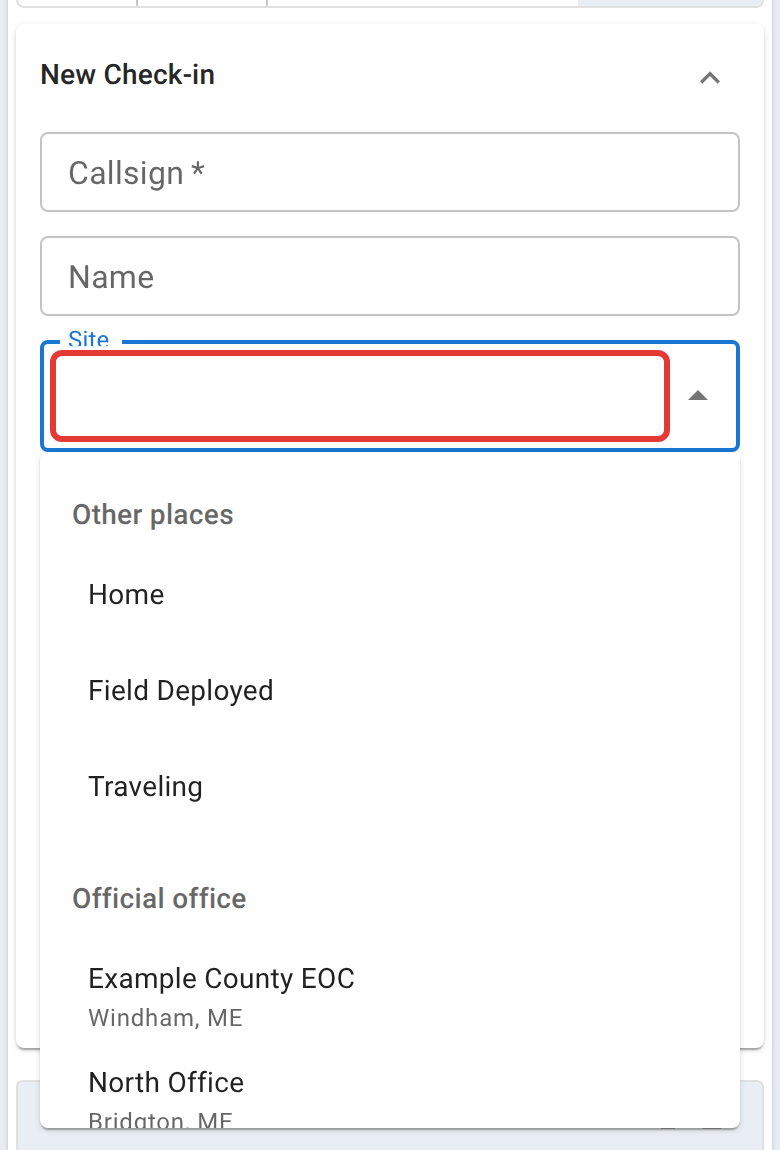
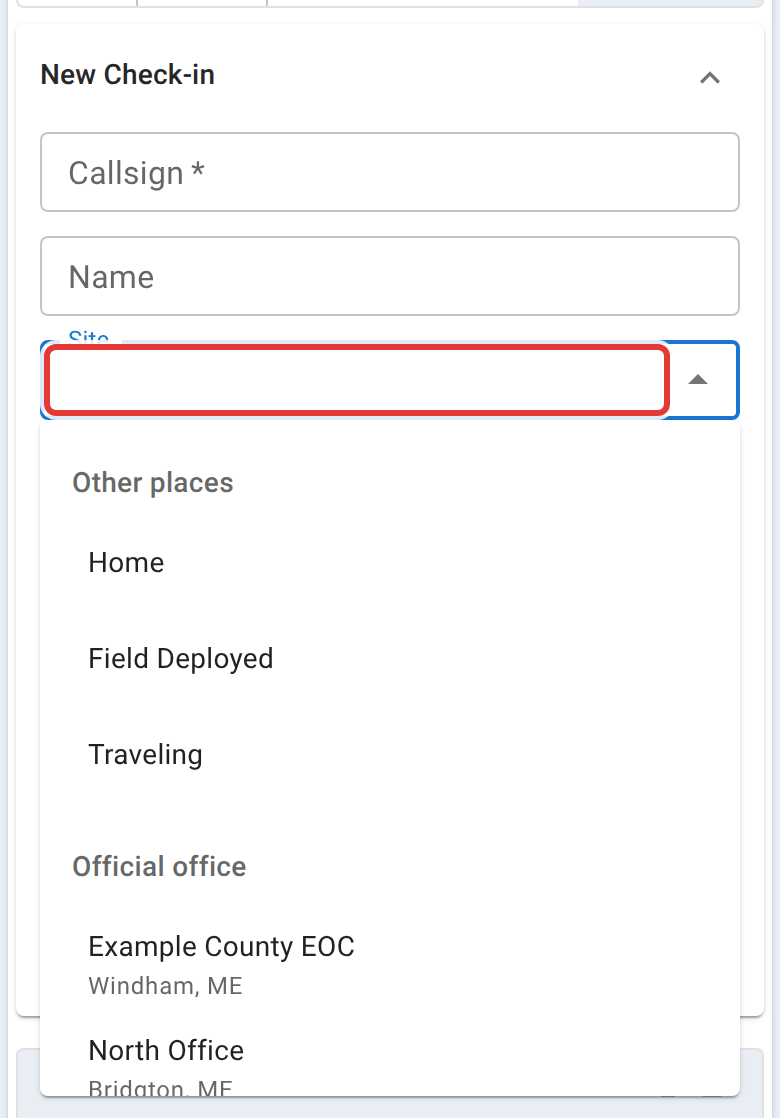
Sites: inline Site correction, row-height fix, changelog 2026.10.23c
Site column in the check-in list edits in place (a correction, not a move:
nothing is checked out). Enter saves the inline Site cell. The entry row's
Site box matches the other fields' height. Roadmap note on event vs incident
post fields.

Claude-Session: https://claude.ai/code/session_01N38C5hU4iFQG7MHaLXB5jw

diff --git a/frontend/src/components/netview/CheckInTable.tsx b/frontend/src/components/netview/CheckInTable.tsx
@@ -31,6 +31,9 @@ import { STATUS_SELECT_MENU_PROPS } from './statusSelectMenuProps';
 import { sneakInFade, SNEAK_IN_HIGHLIGHT_MS, useOffscreenArrivalIndicator } from './sneakInHighlight';
 import OffscreenArrivalArrow from './OffscreenArrivalArrow';
 import CheckInLocation from './CheckInLocation';
+import SiteField, { netHasSites } from './SiteField';
+import { CoverageSite } from '../../utils/coverageSites';
+import { placeChoice, placeChoiceLabel } from '../../utils/stationPlace';
 import HandRaisedIndicator from './HandRaisedIndicator';
 import { looksLikeEmailOrUrl, NAME_FIELD_EMAIL_WARNING } from '../../utils/nameFieldGuard';
 import { findCheckInRole, roleMatchesCheckIn, StationRole } from '../../utils/stationRoles';
@@ -109,6 +112,13 @@ interface CheckInTableProps {
   // Authenticated nets (net.authenticated): opens IdentityVerifyDialog for a
   // row's padlock icon. Optional so existing callers aren't forced to wire it.
   onOpenIdentityVerify?: (checkIn: any) => void;
+  // The net's sites. On a net with any, a Site column sits ahead of
+  // Location, editable in place like the other cells (SiteField), so a site
+  // picked by mistake is fixed without re-entering the check-in.
+  sites?: CoverageSite[];
+  // Replaces the inline edit values at once: picking a site also changes
+  // Location and, for Traveling, the status (utils/stationPlace.ts).
+  onInlineValuesChange?: (updater: (prev: any) => any) => void;
 }
 
 const CheckInTable: React.FC<CheckInTableProps> = ({
@@ -156,7 +166,10 @@ const CheckInTable: React.FC<CheckInTableProps> = ({
   onOpenCanHearDialog,
   highlightedCheckInIds,
   onOpenIdentityVerify,
+  sites = [],
+  onInlineValuesChange,
 }) => {
+  const showSite = netHasSites(sites);
   // Frozen (sticky) trailing column: Actions and the hide-duplicates/detach
   // icons share a single pinned column at the right edge so per-row controls
   // stay reachable on wide nets or narrow screens, with no dead space between
@@ -253,6 +266,7 @@ const CheckInTable: React.FC<CheckInTableProps> = ({
                       <TableCell sx={{ whiteSpace: 'nowrap' }}>Status</TableCell>
                       <TableCell sx={{ whiteSpace: 'nowrap' }}>Callsign *</TableCell>
                       {net?.field_config?.name?.enabled && <TableCell sx={{ whiteSpace: 'nowrap' }}>Name {net.field_config.name.required && '*'}</TableCell>}
+                      {showSite && <TableCell sx={{ whiteSpace: 'nowrap' }}>Site</TableCell>}
                       {net?.field_config?.location?.enabled && <TableCell sx={{ whiteSpace: 'nowrap' }}>Location {net.field_config.location.required && '*'}</TableCell>}
                       {net?.field_config?.skywarn_number?.enabled && <TableCell sx={{ whiteSpace: 'nowrap' }}>Spotter {net.field_config.skywarn_number.required && '*'}</TableCell>}
                       {net?.field_config?.weather_observation?.enabled && <TableCell sx={{ whiteSpace: 'nowrap' }}>Weather {net.field_config.weather_observation.required && '*'}</TableCell>}
@@ -345,6 +359,7 @@ const CheckInTable: React.FC<CheckInTableProps> = ({
                     const hasFrequencyChips = net.frequencies && net.frequencies.length > 1 && checkIn.available_frequencies && checkIn.available_frequencies.length > 0;
                     let columnCount = 5; // #, Status, Callsign, Time, Actions (merged with pop-out icon column)
                     if (net?.field_config?.name?.enabled) columnCount++;
+                    if (showSite) columnCount++;
                     if (net?.field_config?.location?.enabled) columnCount++;
                     if (net?.field_config?.skywarn_number?.enabled) columnCount++;
                     if (net?.field_config?.weather_observation?.enabled) columnCount++;
@@ -636,6 +651,34 @@ const CheckInTable: React.FC<CheckInTableProps> = ({
                               />
                             </Tooltip>
                           ) : checkIn.name}
+                        </TableCell>
+                      )}
+                      {/* Site cell - inline editable (nets with sites only) */}
+                      {showSite && (
+                        <TableCell data-field="site" sx={{ minWidth: isInlineEditing ? 150 : undefined }}>
+                          {isInlineEditing && onInlineValuesChange ? (
+                            <SiteField
+                              sites={sites}
+                              form={inlineEditValues}
+                              setForm={onInlineValuesChange}
+                              compact
+                              textFieldProps={{
+                                size: 'small',
+                                placeholder: 'Site',
+                                autoFocus: inlineEditFocusField === 'site',
+                                onBlur: handleInlineBlur,
+                                // Enter saves and Escape cancels, like every other cell, except
+                                // while the list is open: then Enter picks a site and Escape
+                                // closes the list (the list marks those keys handled).
+                                onKeyDown: (e) => { if (!e.defaultPrevented) handleInlineKeyDown(e); },
+                                inputProps: { style: { padding: '4px 8px' } },
+                                fullWidth: true,
+                              }}
+                            />
+                          ) : (() => {
+                            const choice = placeChoice(checkIn);
+                            return choice ? placeChoiceLabel(choice, sites) : null;
+                          })()}
                         </TableCell>
                       )}
                       {/* Location cell - inline editable */}

diff --git a/frontend/src/components/netview/checkInActions.ts b/frontend/src/components/netview/checkInActions.ts
@@ -3,6 +3,7 @@ import { roleMatchesCheckIn, StationRole } from '../../utils/stationRoles';
 import api from '../../services/api';
 import { getErrorMessage } from '../../utils/apiErrors';
 import { isFieldShown, withOnlyShownFields } from '../../utils/checkInFields';
+import { placeChoice } from '../../utils/stationPlace';
 
 // ========== CHECK-IN ACTIONS ==========
 // The check-in row action handlers: create/edit/delete a check-in, change
@@ -320,6 +321,10 @@ export function getCheckInActions(deps: CheckInActionsDeps): CheckInActions {
       topic_response: checkIn.topic_response || '',
       poll_response: checkIn.poll_response || '',
       custom_fields: checkIn.custom_fields || {},
+      // The Site cell (nets with sites); saved only if the place changed.
+      coverage_site_id: checkIn.coverage_site_id ?? null,
+      operating_position: checkIn.operating_position || '',
+      status: checkIn.status,
     });
   };
 
@@ -348,6 +353,7 @@ export function getCheckInActions(deps: CheckInActionsDeps): CheckInActions {
         custom_fields: inlineEditValues.custom_fields,
         // Keep existing frequency settings
         available_frequency_ids: checkIn.available_frequencies || [],
+        ...placeEdit(checkIn, inlineEditValues),
       }, net?.field_config));
       setInlineEditingId(null);
       setInlineEditValues({});
@@ -360,6 +366,19 @@ export function getCheckInActions(deps: CheckInActionsDeps): CheckInActions {
       console.error('Failed to update check-in:', error);
       setToastMessage(getErrorMessage(error, 'Failed to update check-in'));
     }
+  };
+
+  // A corrected Site: sent only when the place changed, so an ordinary edit
+  // never touches it. The backend pairs coverage_site_id and
+  // operating_position (routers/check_ins.py::update_check_in). Traveling is
+  // the Mobile status, so a change to or from it sends the status too.
+  const placeEdit = (checkIn: any, values: any) => {
+    if (!('operating_position' in values) || placeChoice(values) === placeChoice(checkIn)) return {};
+    return {
+      coverage_site_id: values.coverage_site_id ?? null,
+      operating_position: values.operating_position || '',
+      ...(values.status !== checkIn.status ? { status: values.status } : {}),
+    };
   };
 
   // Cancel inline edit

diff --git a/frontend/src/components/netview/checkInActions.test.ts b/frontend/src/components/netview/checkInActions.test.ts
@@ -221,3 +221,36 @@ describe('handleCallsignLookup', () => {
     expect(h.formNow()).toMatchObject({ name: 'Carol', location: 'Mobile on Route 302' });
   });
 });
+
+// ========== INLINE SITE CORRECTION ==========
+// The Site cell saves with the rest of the row, but only when the place
+// changed: an ordinary edit (a misheard name) must never rewrite the site.
+describe('handleSaveInlineEdit — Site', () => {
+  beforeEach(() => { vi.clearAllMocks(); });
+  const AT_SHELTER = { id: 7, callsign: 'KC1HILL', status: 'checked_in', coverage_site_id: 2, operating_position: 'Naples Shelter', location: 'Naples Shelter, Naples, ME' };
+  const editing = (values: any) => harness([{ ...AT_SHELTER }], {
+    inlineEditingId: 7,
+    inlineEditValues: { callsign: 'KC1HILL', name: '', location: AT_SHELTER.location, coverage_site_id: 2, operating_position: 'Naples Shelter', status: 'checked_in', ...values },
+  });
+
+  it('sends a corrected site', async () => {
+    (checkInApi.update as any).mockResolvedValue({ data: { ...AT_SHELTER, coverage_site_id: 1 } });
+    await editing({ coverage_site_id: 1, operating_position: 'Windham EMA' }).actions.handleSaveInlineEdit();
+    expect((checkInApi.update as any).mock.calls[0][1]).toMatchObject({ coverage_site_id: 1, operating_position: 'Windham EMA' });
+    expect((checkInApi.update as any).mock.calls[0][1]).not.toHaveProperty('status');
+  });
+
+  it('leaves the site alone on an ordinary edit', async () => {
+    (checkInApi.update as any).mockResolvedValue({ data: AT_SHELTER });
+    await editing({ name: 'Priya' }).actions.handleSaveInlineEdit();
+    const sent = (checkInApi.update as any).mock.calls[0][1];
+    expect(sent).not.toHaveProperty('coverage_site_id');
+    expect(sent).not.toHaveProperty('operating_position');
+  });
+
+  it('Traveling sends the Mobile status with it', async () => {
+    (checkInApi.update as any).mockResolvedValue({ data: { ...AT_SHELTER, status: 'mobile' } });
+    await editing({ coverage_site_id: null, operating_position: '', status: 'mobile' }).actions.handleSaveInlineEdit();
+    expect((checkInApi.update as any).mock.calls[0][1]).toMatchObject({ status: 'mobile', coverage_site_id: null });
+  });
+});

diff --git a/frontend/src/pages/NetView.tsx b/frontend/src/pages/NetView.tsx
@@ -1907,6 +1907,8 @@ const NetView: React.FC = () => {
                 canReportCanHear={canReportCanHear}
                 canHearReporterCheckInIds={canHearReporterCheckInIds}
                 onOpenCanHearDialog={setCanHearDialogCheckInId}
+                sites={siteCoverage.sites}
+                onInlineValuesChange={setInlineEditValues}
                 onOpenIdentityVerify={setIdentityVerifyCheckIn}
                 highlightedCheckInIds={sneakInHighlightIds}
               />
@@ -2800,6 +2802,8 @@ const NetView: React.FC = () => {
                 canReportCanHear={canReportCanHear}
                 canHearReporterCheckInIds={canHearReporterCheckInIds}
                 onOpenCanHearDialog={setCanHearDialogCheckInId}
+                sites={siteCoverage.sites}
+                onInlineValuesChange={setInlineEditValues}
                 onOpenIdentityVerify={setIdentityVerifyCheckIn}
                 highlightedCheckInIds={sneakInHighlightIds}
               />

diff --git a/frontend/src/pages/NetPaneWindow.tsx b/frontend/src/pages/NetPaneWindow.tsx
@@ -514,6 +514,8 @@ const NetPaneWindow: React.FC = () => {
         canReportCanHear={canReportCanHear}
         canHearReporterCheckInIds={canHearReporterCheckInIds}
         onOpenCanHearDialog={setCanHearDialogCheckInId}
+        sites={siteCoverage.sites}
+        onInlineValuesChange={setInlineEditValues}
         onOpenIdentityVerify={setIdentityVerifyCheckIn}
         highlightedCheckInIds={sneakInHighlightIds}
       />

diff --git a/frontend/src/components/netview/SiteField.tsx b/frontend/src/components/netview/SiteField.tsx
@@ -75,6 +75,7 @@ function SiteField<T extends { coverage_site_id?: number | null; operating_posit
         );
       }}
       autoHighlight
+      size={textFieldProps?.size === 'small' ? 'small' : 'medium'}
       forcePopupIcon={!compact}
       fullWidth={textFieldProps?.fullWidth}
       PopperComponent={SiteListPopper}

diff --git a/backend/tests/test_station_place.py b/backend/tests/test_station_place.py
@@ -244,3 +244,31 @@ async def test_net_log_email_renders_the_sites_section(monkeypatch):
         site_roster=[{"place": "Bonny Eagle HS", "detail": "Standish, ME", "callsigns": "KC1HILL"}],
     )
     assert "Sites" in captured["html"] and "Bonny Eagle HS" in captured["html"] and "KC1HILL" in captured["html"]
+
+
+@pytest.mark.asyncio
+async def test_correcting_a_site_in_place_moves_nothing_and_home_gets_the_saved_town(client, db, owner):
+    """A site picked by mistake is corrected on the row itself: no check-out,
+    no second row, and Home brings back the station's usual town."""
+    net, simplex, _ = await _net(db, owner)
+    ema, shelter = await _sites(client, net, owner)
+    db.add(Contact(callsign="KC1HILL", location="Gorham, ME"))
+    await db.commit()
+    row = (await _check_in(client, net, owner, coverage_site_id=shelter["id"], frequency_id=simplex.id)).json()
+
+    fixed = await client.put(f"/api/check-ins/check-ins/{row['id']}",
+                             json={"coverage_site_id": ema["id"], "location": "Windham EMA, Windham, ME"},
+                             headers=auth_headers(owner))
+    assert fixed.status_code == 200
+    assert fixed.json()["operating_position"] == "Windham EMA"
+    home = await client.put(f"/api/check-ins/check-ins/{row['id']}",
+                            json={"coverage_site_id": None, "operating_position": "Home", "location": ""},
+                            headers=auth_headers(owner))
+    assert home.json()["location"] == "Gorham, ME"
+    rows = await _rows(db, net)
+    assert len(rows) == 1 and rows[0].status == StationStatus.CHECKED_IN
+    # The correction to a site never taught the station's saved town the shelter.
+    contact = (await db.execute(
+        select(Contact).where(Contact.callsign == "KC1HILL").execution_options(populate_existing=True)
+    )).scalar_one()
+    assert contact.location == "Gorham, ME"

diff --git a/backend/app/routers/check_ins.py b/backend/app/routers/check_ins.py
@@ -691,6 +691,14 @@ async def update_check_in(
     for field, value in update_data.items():
         setattr(check_in, field, value)
 
+    # Corrected to Home with no location given: the station's saved town,
+    # as create_check_in does. (Moving off a site clears the site's place.)
+    if 'operating_position' in update_data and is_home_position(check_in.operating_position) \
+            and not (check_in.location or '').strip():
+        check_in.location = (await db.execute(
+            select(Contact.location).where(Contact.callsign == check_in.callsign)
+        )).scalar_one_or_none() or ''
+
     # A corrected callsign is a different station, so the row follows the new
     # callsign's account, the same lookup create_check_in does. Without this,
     # a row first logged with a typo stayed a guest row forever, and roles

diff --git a/docs/ROADMAP.md b/docs/ROADMAP.md
@@ -224,6 +224,8 @@ ECTLogger cannot serve those events today. A check-in typed as a tactical design
 
 **Vocabulary decision.** The words *coverage*, *tactical callsign*, *operating position*, *staff*, and *position* are all already spent in this codebase (RF propagation, the per-person `User.callsigns` alias list, the Home/Field classifier, the NCS eligibility pool, and a rotation sort integer respectively). This feature uses **Post** and **Shift** throughout, and never a bare `post` identifier in backend code.
 
+**Build posts on net sites, not beside them (added 2026-10-23).** Every net can now have sites (`CoverageSite`), picked in the check-in form's Site box ahead of Location and grouped on the Sites board, with a recheck from a different site checking the old check-in out (`services/station_place.py`, `utils/stationPlace.ts`, docs `/docs/net-managers/sites/`). A post is a site with a designator and shifts, so extend that table and that box rather than adding a second place list a net control operator would have to choose between. The event site types (aid station, checkpoint, start/finish, SAG) belong here, offered by the kind of net rather than to every net: an event offers them, an incident (and a drill, an incident at lower criticality) offers shelters, PODs and offices. That net kind is the same distinction the Incident Operations Log item's incident type draws (real-world, drill, exercise, planned event), so settle it once for both. Brad, 2026-10-23.
+
 **Key decisions, argued in full in the concept doc:**
 - An event is a `NetTemplate` (the reusable plan) plus one `Net` per ICS operational period. No new top-level entity.
 - The check-in row carries the **operator's own FCC callsign**, plus a post reference supplying the designator; it renders and exports as designator-then-callsign. This is the only option that gives operator credit with zero changes to the statistics layer, and the only one that does not corrupt recheck dedup.

diff --git a/docs/net-control/stations-at-sites.md b/docs/net-control/stations-at-sites.md
@@ -14,7 +14,7 @@ permalink: /docs/net-control/stations-at-sites/
 
 On a net whose manager has added [sites](/docs/net-managers/sites/), such as the shelters of an ARES deployment or the aid stations of a race, the check-in form has a **Site** box ahead of **Location**. It records where the station is tonight, separately from where it usually is, and the toolbar's **Sites** board shows every station grouped by it.
 
-A net without sites has no Site box and no Sites button.
+A net without sites has no Site box, no Site column, and no Sites button.
 
 ## Check a station in at a site
 
@@ -54,7 +54,9 @@ A station that went Traveling and is checked in again with no site is refused as
 
 ### Fixing a site picked by mistake
 
-There is no Site box when you edit a row in place. If you picked the wrong site, delete that check-in (see [Logging check-ins](/docs/net-control/logging-check-ins/#deleting-a-check-in)) and check the station in again at the right one. Checking it in again without deleting would record a move that never happened.
+On a net with sites the check-in list has a **Site** column ahead of Location. Click a station's site to open the row for editing, pick the right one, and press **Enter** or click away, the same as fixing any other cell (see [Editing a row in place](/docs/net-control/logging-check-ins/#editing-a-row-in-place)). Location changes to match.
+
+A correction is not a move: nothing is checked out and no second row is added. Use it when the site was wrong, and check the station in again when it really went somewhere else, so the log shows when it moved.
 
 ## The Sites board
 

diff --git a/docs/net-control/logging-check-ins.md b/docs/net-control/logging-check-ins.md
@@ -52,7 +52,7 @@ Click anywhere on a check-in's row (Callsign, Name, Location, whatever's shown) 
 - **Escape** cancels and puts the row back the way it was.
 - **Tab** moves between fields normally, so you can correct several fields in one pass without reaching for the mouse.
 
-This is the tool for fixing a callsign you misheard, correcting a location, or updating anything else about a check-in after the fact. There's no separate "edit" mode or dialog to hunt for. A corrected callsign also moves the row to that station's account, or makes it a guest row if the new callsign has none, so a station first logged with a typo can still be made NCS or Logger from the list.
+This is the tool for fixing a callsign you misheard, correcting a location or a site, or updating anything else about a check-in after the fact. There's no separate "edit" mode or dialog to hunt for. A corrected callsign also moves the row to that station's account, or makes it a guest row if the new callsign has none, so a station first logged with a typo can still be made NCS or Logger from the list.
 
 The one exception is the station's round picture (its avatar) beside the callsign. Clicking that opens the station's profile instead, so you can look someone up without opening the row for editing.
 

diff --git a/docs/CHANGELOG.md b/docs/CHANGELOG.md
@@ -26,6 +26,8 @@ All notable changes to ECTLogger are documented here.
 
 ## Improvements
 
+* **Check-in: Sites on any net** — Any net can now have a list of sites, such as shelters, aid stations and checkpoints, without turning on coverage logging. Each check-in gets a Site box next to Location with those sites plus Home, and the net shows a board of who is at each site, at home, or mobile. Logging someone at a site doesn't change the usual town that fills in for them on your other nets. [Learn more](/docs/net-managers/sites/)
+* **Check-in: Moving stations check out automatically** — When a station checks in again from a different place, their earlier check-in is checked out for them, since nobody can be in two places at once. Before, NCS had to check them out by hand before the new check-in would go through. [Learn more](/docs/net-control/stations-at-sites/#when-a-station-moves)
 * **Net View: More room in the check-in row** — The fields in the row where NCS and Loggers enter new check-ins sit closer together and the decorative + is gone, so the boxes are wider and you can see what you're typing.
 
 ## Bug Fixes
